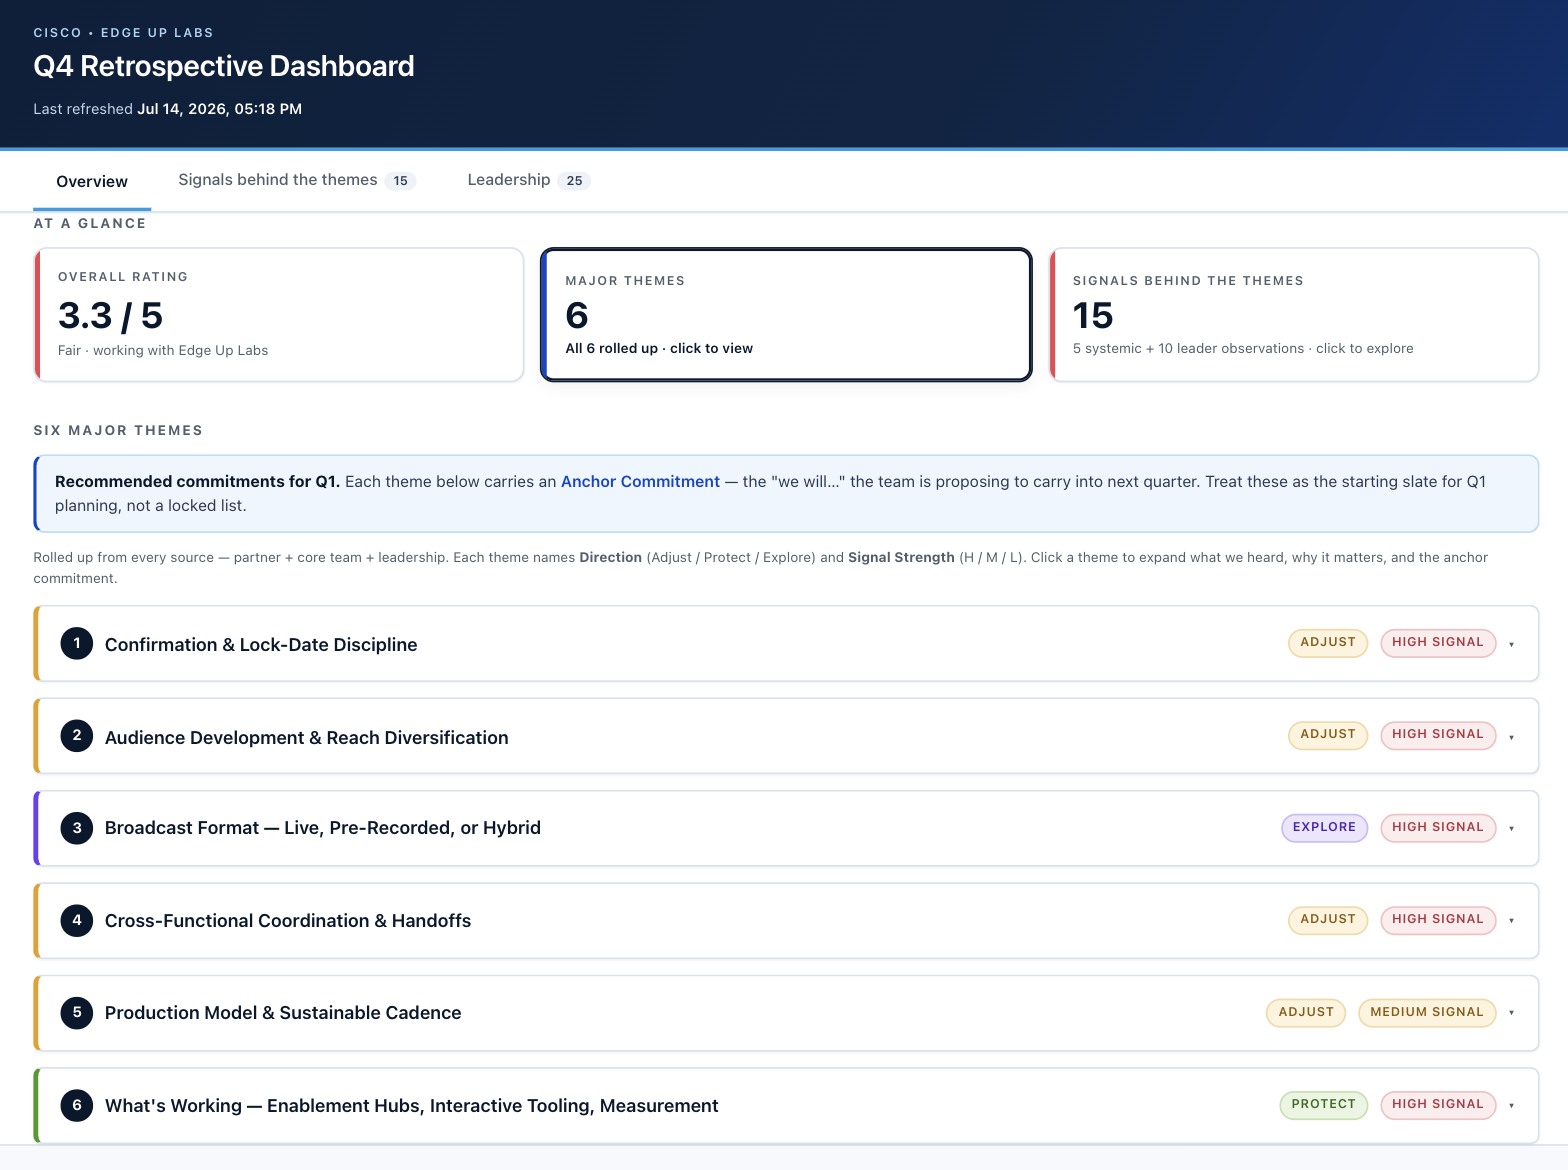
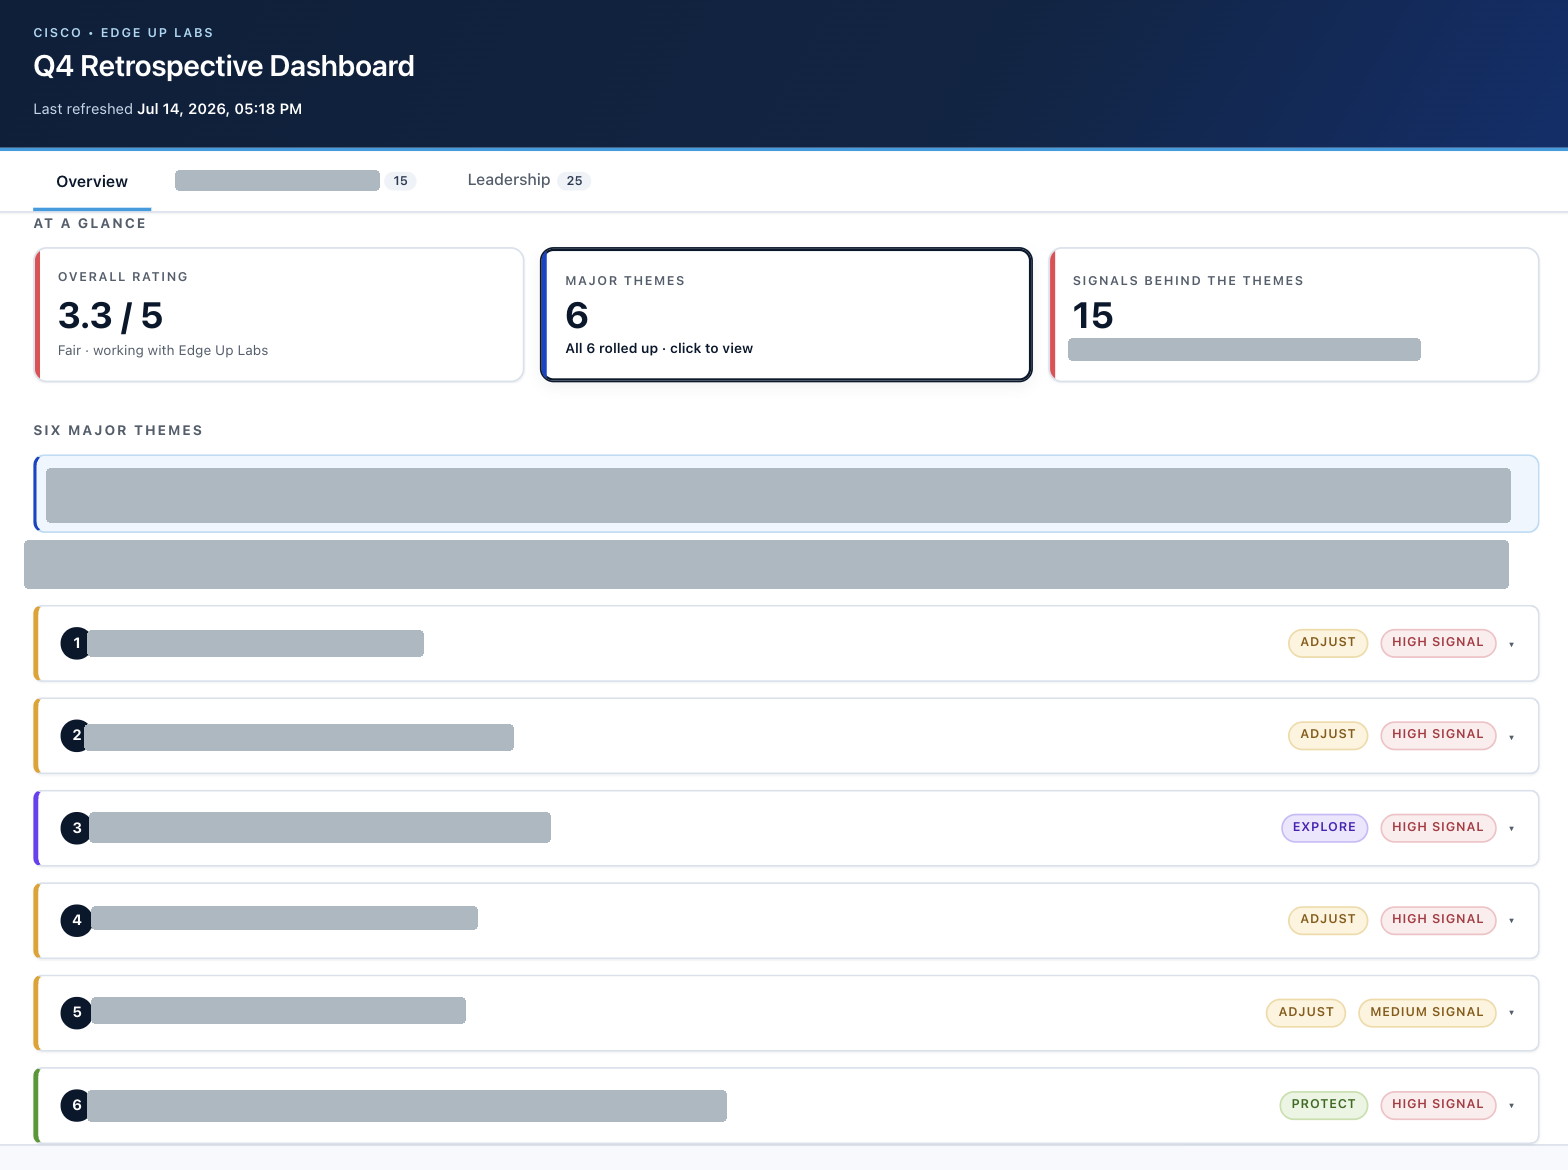
Cover the written themes on the retrospective example.
The rating and the row structure stay visible. The findings do not.

diff --git a/tools/github.html b/tools/github.html
@@ -49,8 +49,8 @@
       <h2>Retrospective dashboard</h2>
       <p>Feedback becomes a few themes and the commitments the next cycle will carry. Raw comments stay off the public view.</p>
       <figure class="shot">
-        <img src="../assets/examples/retro-overview.png" alt="Retrospective overview with an overall rating and six themes.">
-        <figcaption class="shot-note">Example. The response text stays off the page.</figcaption>
+        <img src="../assets/examples/retro-overview.png?v=retro2" alt="Retrospective overview. The written themes are covered.">
+        <figcaption class="shot-note">Example. Theme detail and response text stay off the page.</figcaption>
       </figure>
     </section>
 
